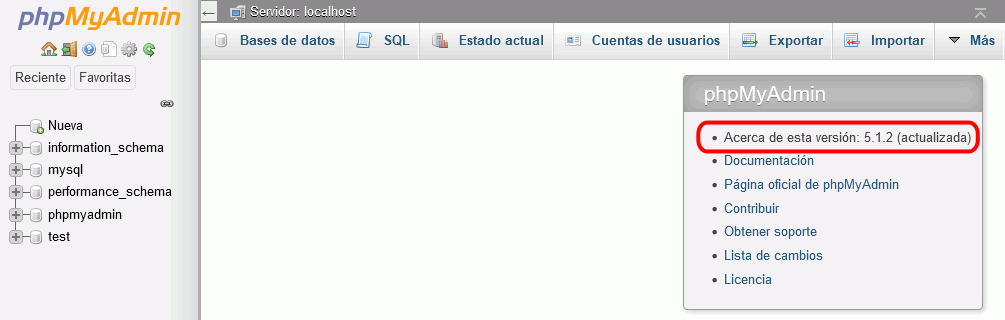
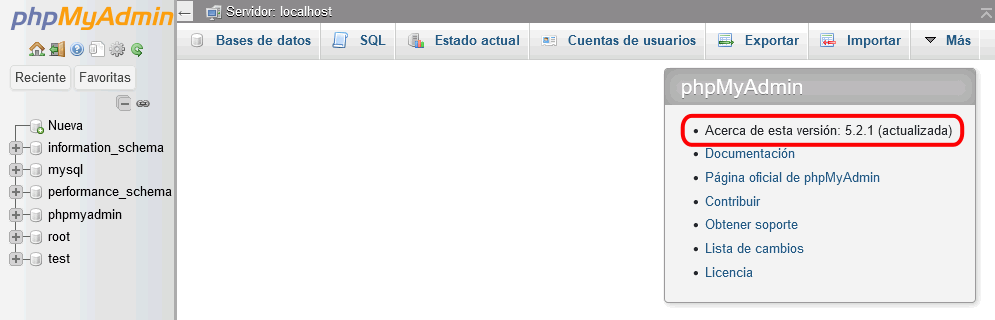
phpMyAdmin (1): publicado pma 5.2.1, actualizo ejercicio actualización

diff --git a/lecciones/phpmyadmin-1.html b/lecciones/phpmyadmin-1.html
@@ -106,11 +106,12 @@
     <ol>
       <li>Visite la página web del proyecto phpMyAdmin.</li>
       <li>phpMyAdmin se distribuye en forma de archivo comprimido. En la página de descarga se ofrecen varios archivos. La diferencia entre ellos son los idiomas incluidos (la mitad de los archivos incluyen únicamente el idioma inglés y la otra mitad incluyen todos los idiomas disponibles) y el tipo de compresión (zip, tar.gz o tar.xz).
-        <p>Actualmente (enero de 2023), la última versión publicada es phpMyAdmin es phpMyAdmin 5.2.0, publicada el 11 de mayo de 2022.</p>
-        <!--
+
         <p><img src="../varios/iconos/icono-warning.svg" alt="¡Atención!" width="55" height="48" class="izquierda">Para poder hacer en un ejercicio posterior la actualización de phpMyAdmin, no utilizaremos la última versión disponible, sino una anterior. Se aconseja descargar la versión con todos los idiomas, en el formato <strong>zip</strong>.</p>
-        <p>Para realizar los primeros ejercicios siguientes, descargue primero la versión <strong>phpMyAdmin 5.1.1</strong>, publicada el 4 de junio de 2021. Probablemente, los ejercicios se puedan realizar con versiones posteriores, pero para que las capturas de pantalla de estos apuntes coincidan, se aconseja descargar esta versión, de la web de phpMyAdmin o de la página de <a href="../otros/descarga-aplicaciones.html">Descarga de aplicaciones</a> de estos apuntes.</p>
-        -->
+
+        <p>Actualmente (mayo de 2023), la última versión publicada es phpMyAdmin es phpMyAdmin 5.2.1, publicada el 8 de febrero de 2023.</p>
+
+        <p>Para realizar los primeros ejercicios siguientes, descargue primero la versión <strong>phpMyAdmin 5.2.0</strong>, publicada el 11 de mayo de 2022. Probablemente, los ejercicios se puedan realizar con versiones posteriores, pero para que las capturas de pantalla de estos apuntes coincidan, se aconseja descargar esta versión, de la web de phpMyAdmin o de la página de <a href="../otros/descarga-aplicaciones.html">Descarga de aplicaciones</a> de estos apuntes.</p>
       </li>
     </ol>
   </section>
@@ -182,26 +183,25 @@
   <section id="ejercicio-8">
     <h2>phpMyAdmin (1) 8 - Actualizar phpMyAdmin</h2>
 
-    <p><img src="../varios/iconos/icono-warning.svg" alt="¡Atención!" width="55" height="48">Actualmente (febrero de 2023) no se ha publicado todavía phpMyAdmin 5.2.1, por lo que no se puede hacer este ejercicio con esta versión. Se muestran en su lugar las capturas correspondientes a las versiones 5.1.1 y 5.1.2, que será muy similares en las versiones 5.2.0 y 5.2.1.</p>
     <ol>
       <li>Compruebe que hay una versión más reciente de phpMyAdmin:
         <p class="captura">
-          <img src="../img/phpmyadmin/1-8-e-1-version.png" alt="phpMyAdmin. Pantalla general" width="1005" height="428">
+          <img src="../img/phpmyadmin/1-8-e-1-version.png" alt="phpMyAdmin. Pantalla general" width="995" height="415">
         </p>
       </li>
-      <li>Descargue la versión <strong>phpMyAdmin 5.1.2</strong>, publicada el 22 de enero de 2022. Probablemente, los ejercicios se puedan realizar con versiones posteriores, pero si quiere utilizar las mismas versiones utilizadas para las capturas, descárguela de la web de phpMyAdmin o de la página de <a href="../otros/descarga-aplicaciones.html">Descarga de aplicaciones</a> de estos apuntes.
+      <li>Descargue la versión <strong>phpMyAdmin 5.2.1</strong>, publicada el 8 de febrero de 2023. Probablemente, los ejercicios se puedan realizar con versiones posteriores, pero si quiere utilizar las mismas versiones utilizadas para las capturas, descárguela de la web de phpMyAdmin o de la página de <a href="../otros/descarga-aplicaciones.html">Descarga de aplicaciones</a> de estos apuntes.
       </li>
       <li>Sustituya la versión anterior por la última, conservando el archivo de configuración.</li>
       <li>Compruebe que tiene instalada la última versión de phpMyAdmin:
         <p class="captura">
-          <img src="../img/phpmyadmin/1-8-e-2-version.png" alt="phpMyAdmin. Pantalla general" width="1005" height="320">
+          <img src="../img/phpmyadmin/1-8-e-2-version.png" alt="phpMyAdmin. Pantalla general" width="995" height="320">
         </p>
       </li>
     </ol>
   </section>
 
   <footer>
-    <p class="ultmod">Última modificación de esta página: 2 de febrero de 2023</p>
+    <p class="ultmod">Última modificación de esta página: 24 de mayo de 2023</p>
 
     <p class="licencia">
       <a rel="license" href="https://creativecommons.org/licenses/by-sa/4.0/deed.es_ES"><img src="../varios/iconos/icono-cc-by-sa.svg" alt="Licencia Creative Commons" title="Licencia Creative Commons BY-SA" width="120" height="42"></a><br>

diff --git a/otros/descarga-aplicaciones.html b/otros/descarga-aplicaciones.html
@@ -43,6 +43,7 @@
               <li>phpMyAdmin:
                 <ul>
                   <li><a href="https://www.mclibre.org/descargar/webapps/2223/phpMyAdmin-5-2-0-all-languages.zip">phpMyAdmin 5.2.0 all languages (11/05/22, 13,4 MB)</a></li>
+                  <li><a href="https://www.mclibre.org/descargar/webapps/2223/phpMyAdmin-5-2-1-all-languages.zip">phpMyAdmin 5.2.1 all languages (08/02/23, 14,3 MB)</a></li>
                   <li><a href="https://www.mclibre.org/descargar/webapps/2223/iaw-agenda-2023-01-17.zip">aplicación web Agenda (17/01/22, 30 KB)</a></li>
                   <li><a href="https://www.mclibre.org/descargar/webapps/2223/phpmyadmin-theme-darkwolf-5-2.zip">tema darkwolf 5.2 para phpMyAdmin 5.2 (22/10/22, 920 KB)</a></li>
                 </ul>
@@ -179,7 +180,7 @@
   </section>
 
   <footer>
-    <p class="ultmod">Última modificación de esta página: 8 de febrero de 2023</p>
+    <p class="ultmod">Última modificación de esta página: 24 de mayo de 2023</p>
 
     <p class="licencia">
       <a rel="license" href="https://creativecommons.org/licenses/by-sa/4.0/deed.es_ES"><img src="../varios/iconos/icono-cc-by-sa.svg" alt="Licencia Creative Commons" title="Licencia Creative Commons BY-SA" width="120" height="42"></a><br>

diff --git a/index.html b/index.html
@@ -230,7 +230,7 @@
   </div>
 
   <footer>
-    <p class="ultmod">Última modificación de alguna página de este curso: 23 de mayo de 2023</p>
+    <p class="ultmod">Última modificación de alguna página de este curso: 24 de mayo de 2023</p>
 
     <p class="licencia">
       <a rel="license" href="https://creativecommons.org/licenses/by-sa/4.0/deed.es_ES"><img src="varios/iconos/icono-cc-by-sa.svg" alt="Licencia Creative Commons" title="Licencia Creative Commons BY-SA" width="120" height="42"></a><br>
